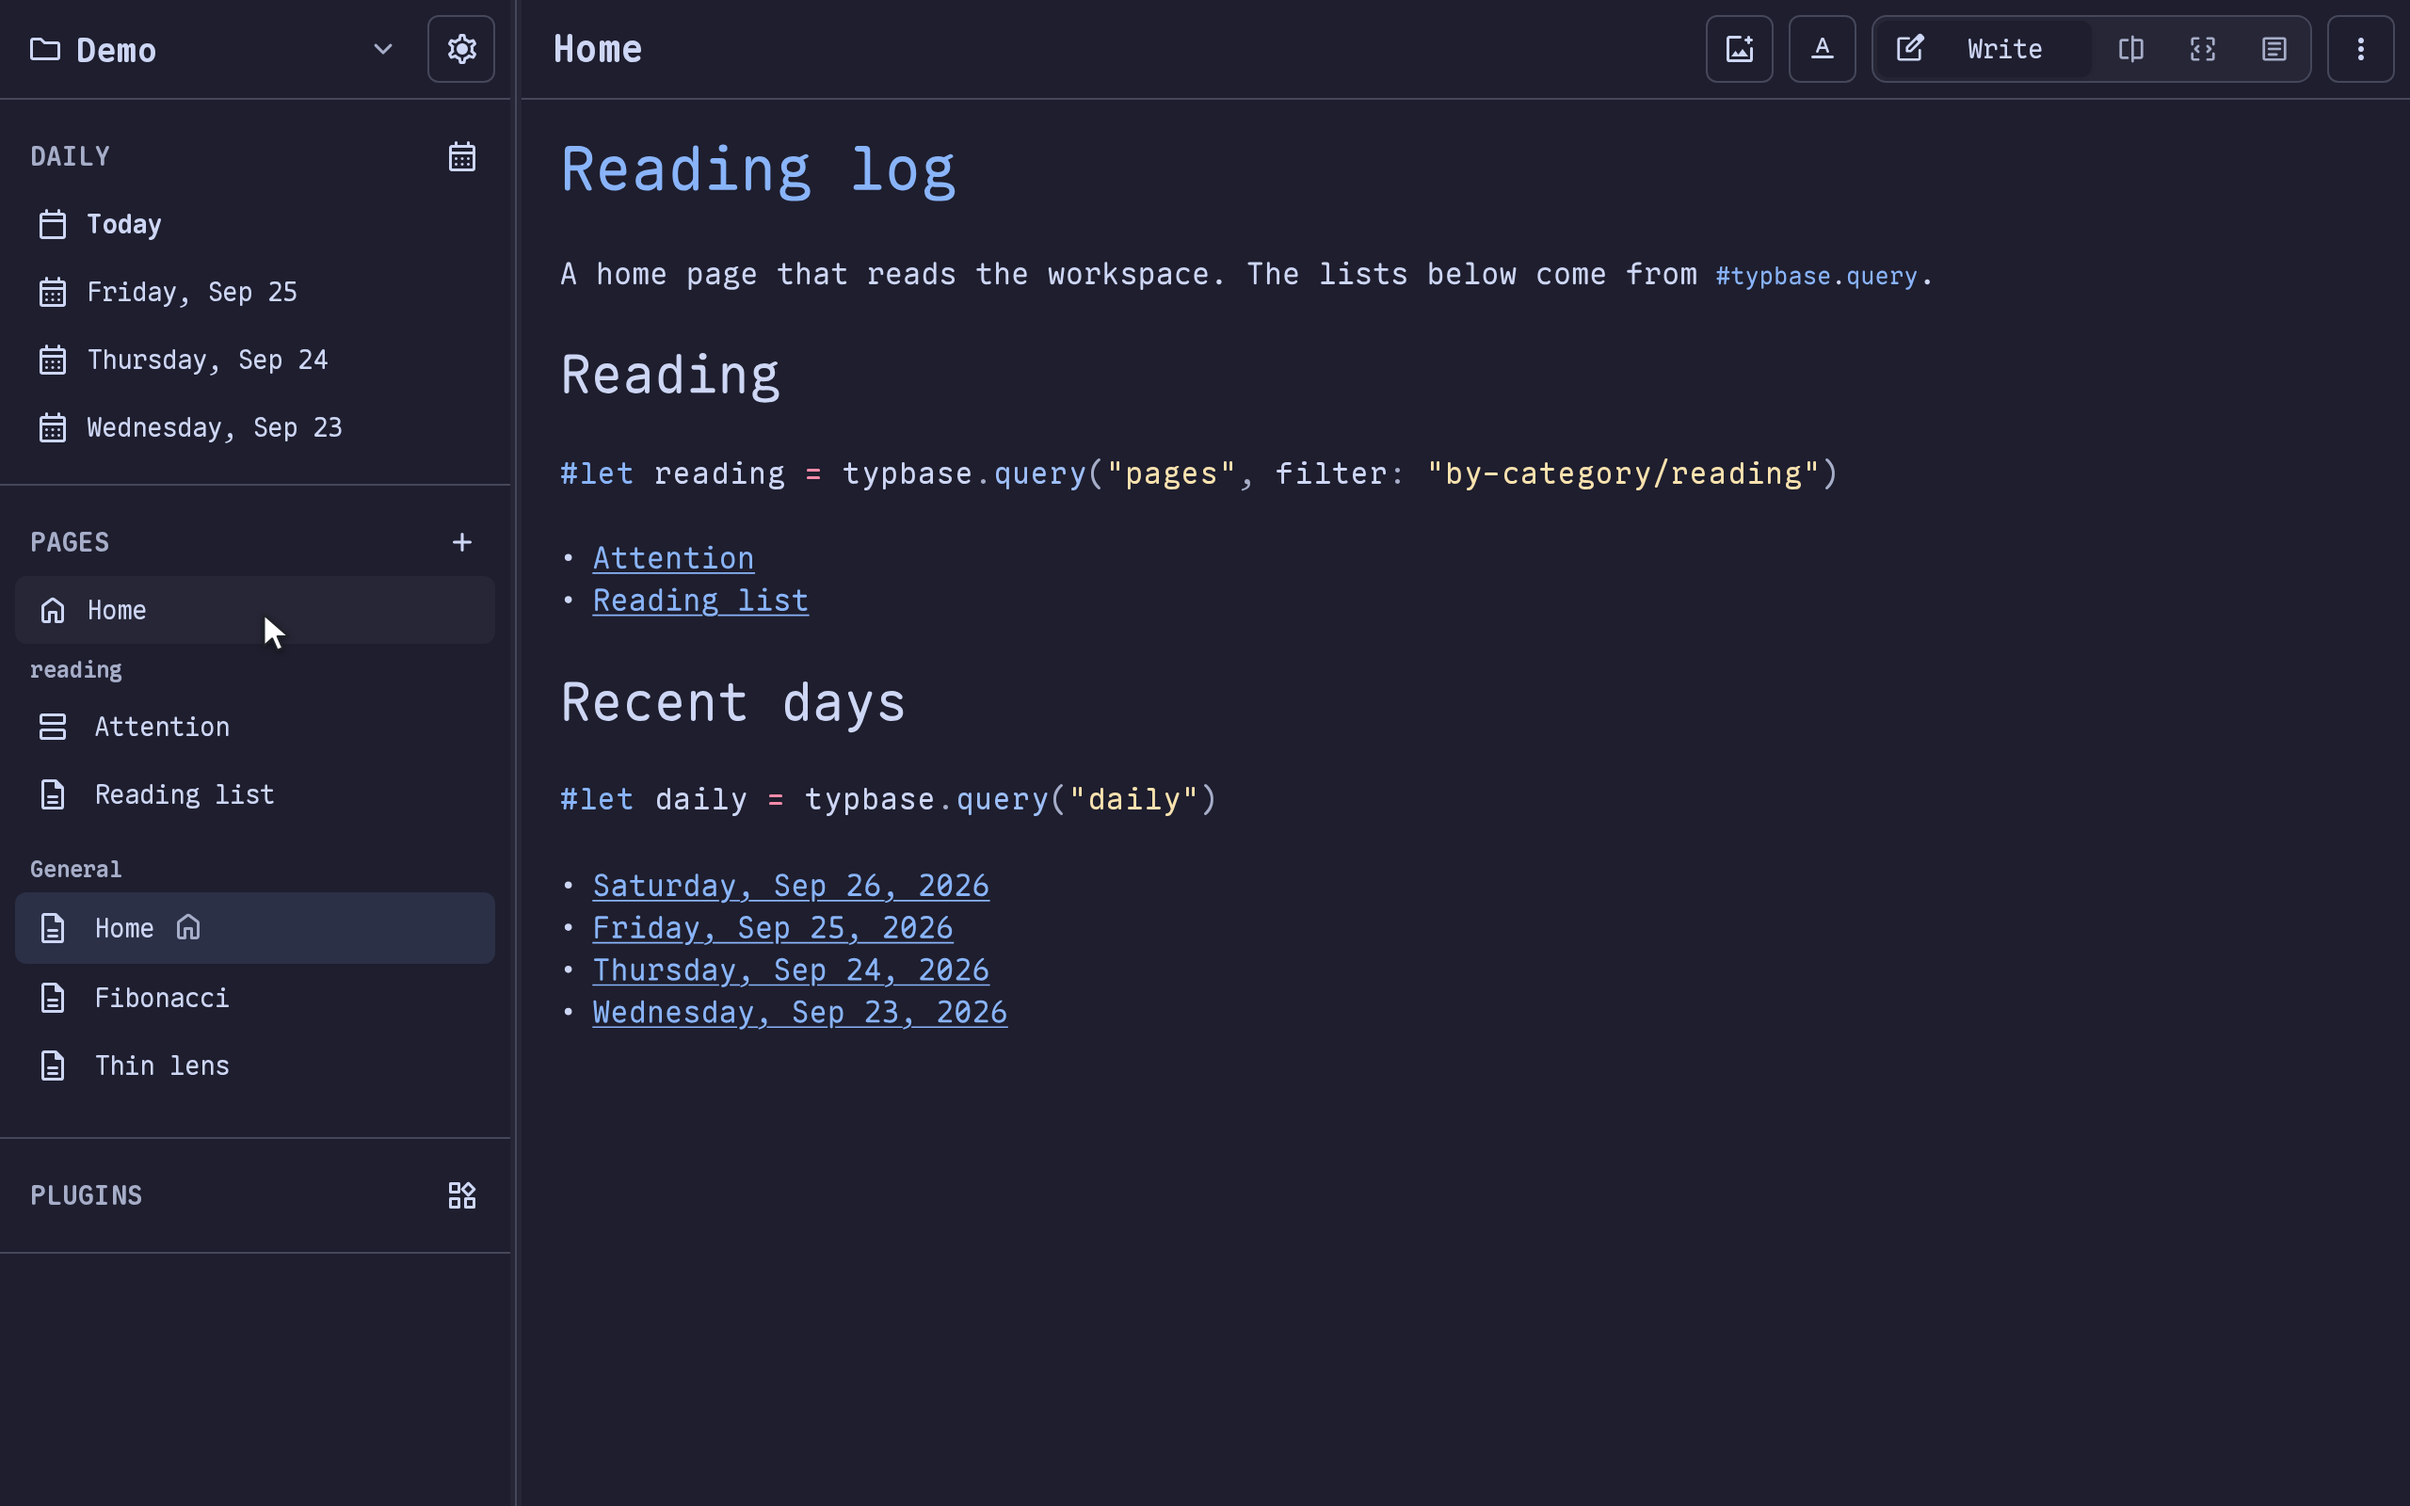
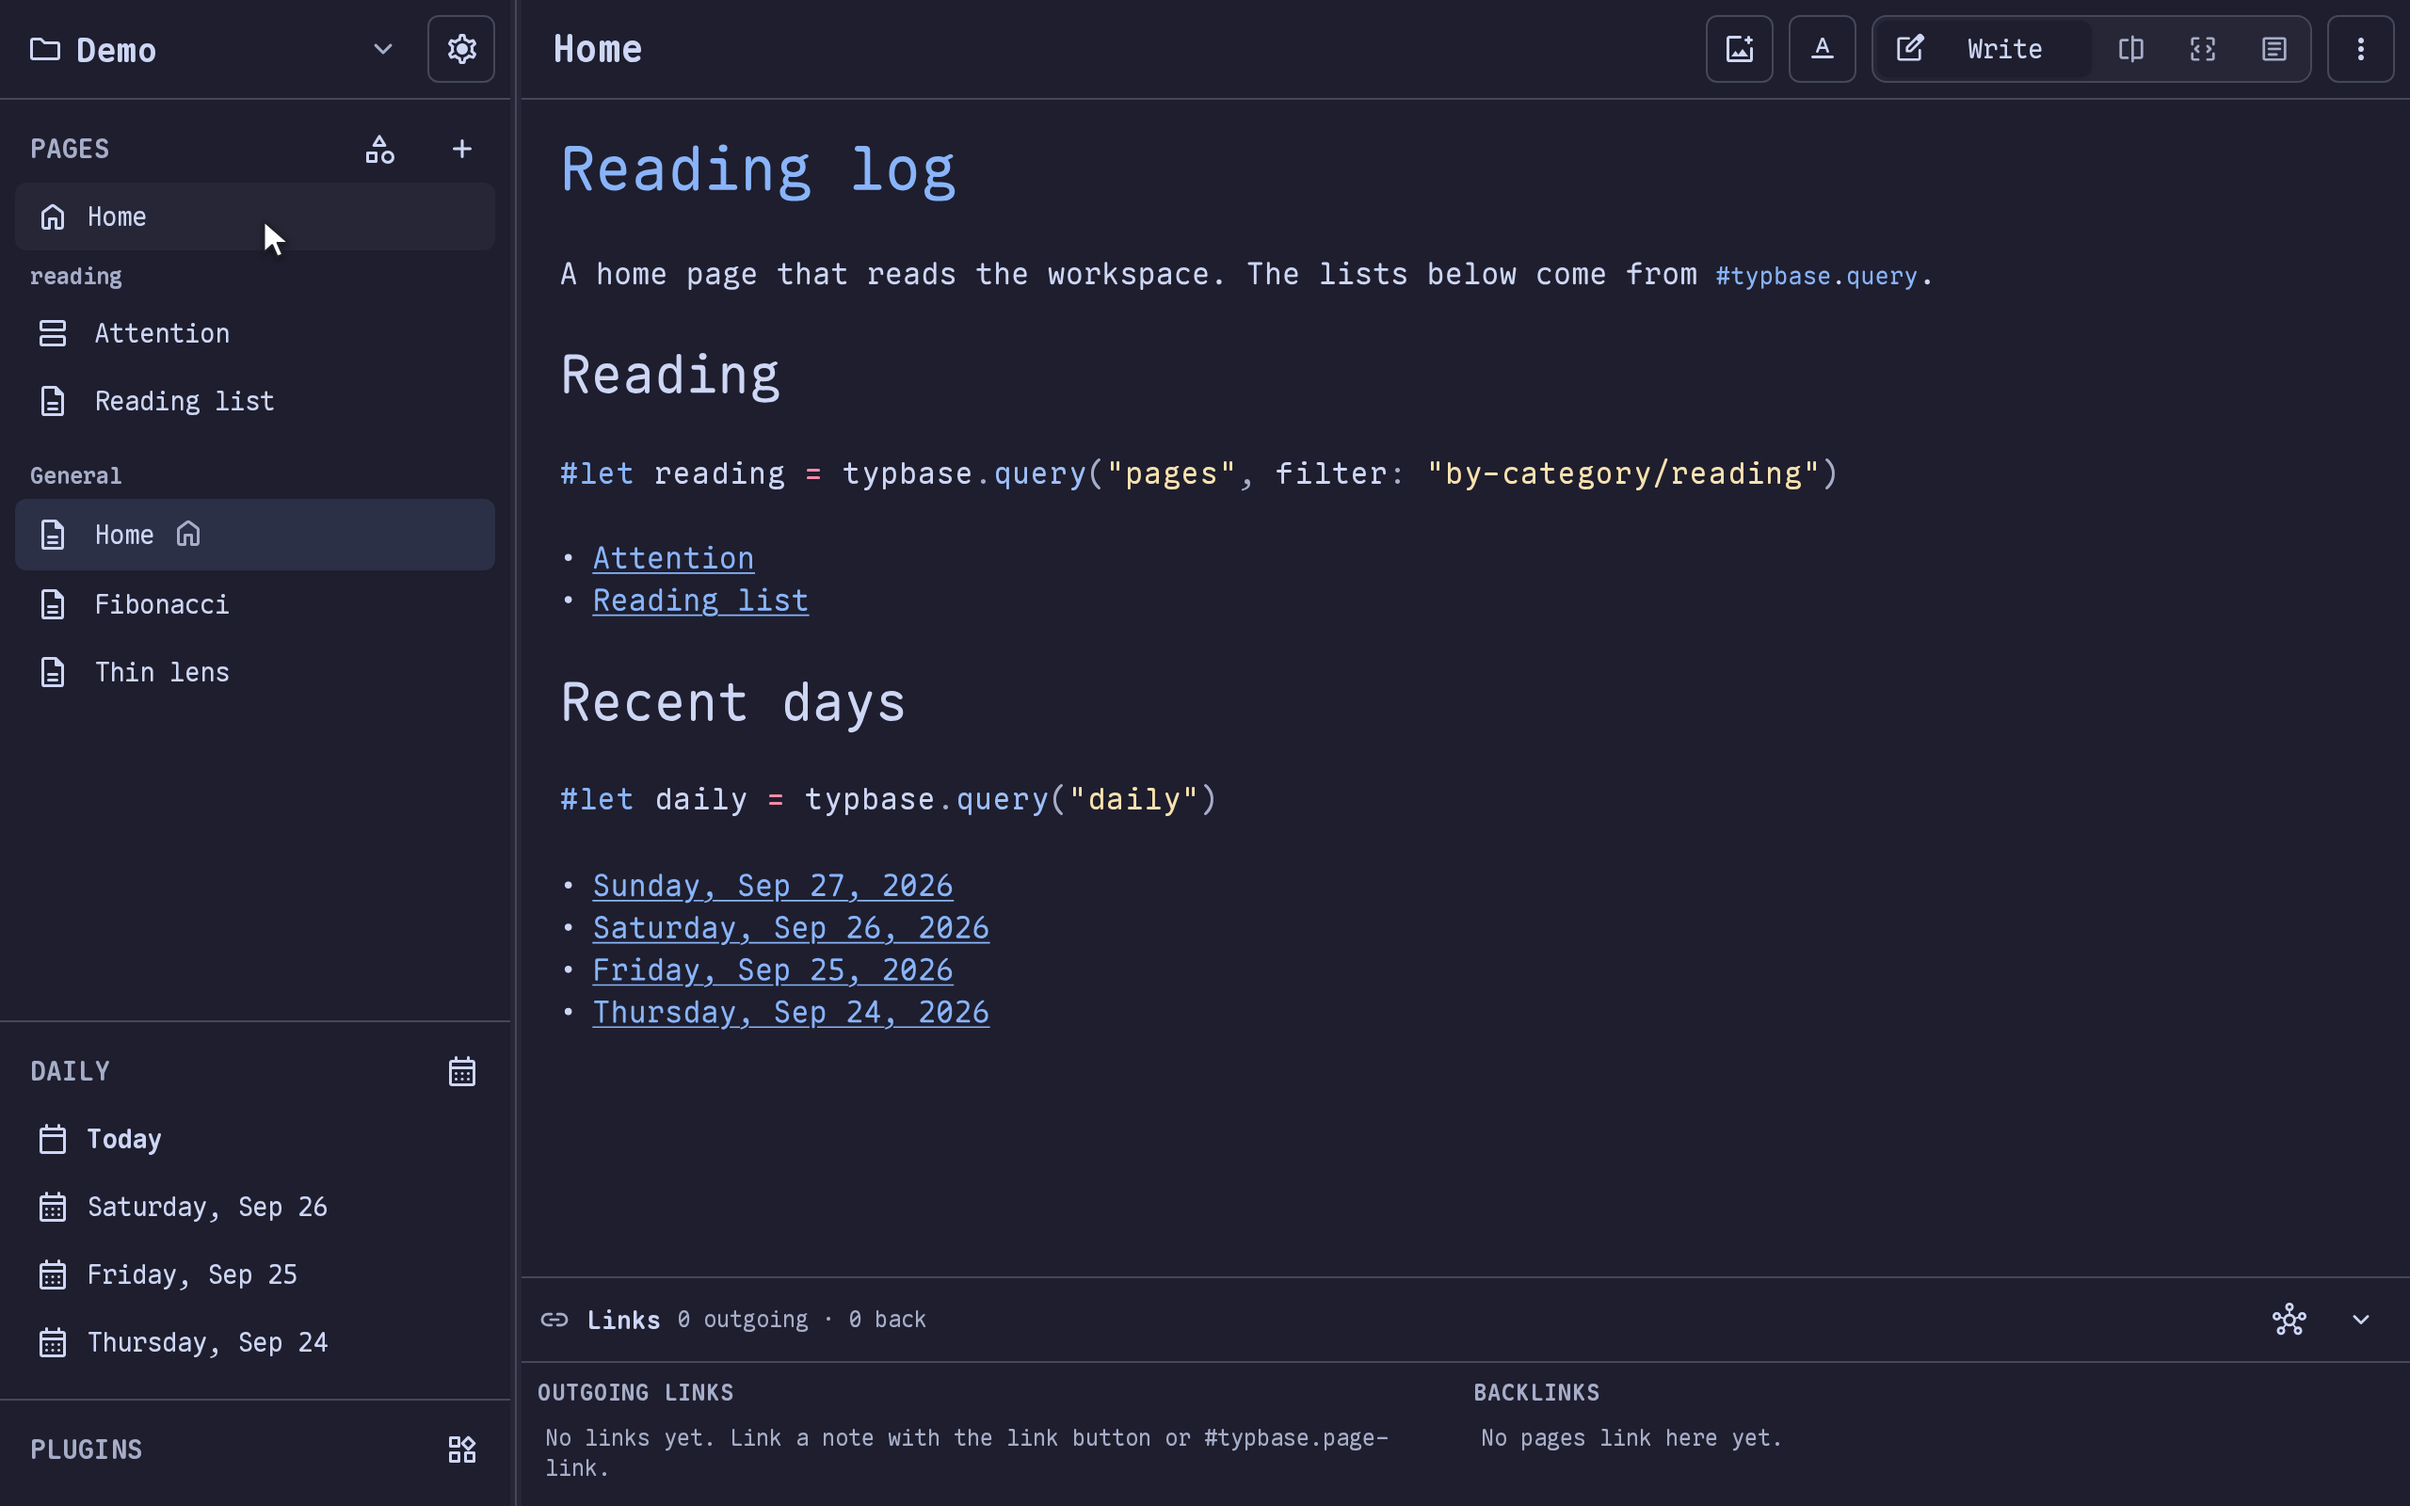
chore: initial update hero script to show backlinks graph

diff --git a/apps/web/src/components/Sidebar.vue b/apps/web/src/components/Sidebar.vue
@@ -509,7 +509,7 @@ function onCreated(page: PageMeta) {
 }
 
 .sidebar__section {
-  padding: 0 var(--space-2) var(--space-3);
+  padding: 0 var(--space-2) var(--space-2);
 }
 
 /* The line separates sections; the last one has nothing below it to separate

diff --git a/apps/web/src/components/LinksPanel.vue b/apps/web/src/components/LinksPanel.vue
@@ -230,6 +230,7 @@ function mentionCount(group: BacklinkGroup): string {
   width: 100%;
   padding: var(--space-1);
   text-align: left;
+  font-family: inherit;
   color: var(--color-text);
   background: transparent;
   border: none;
